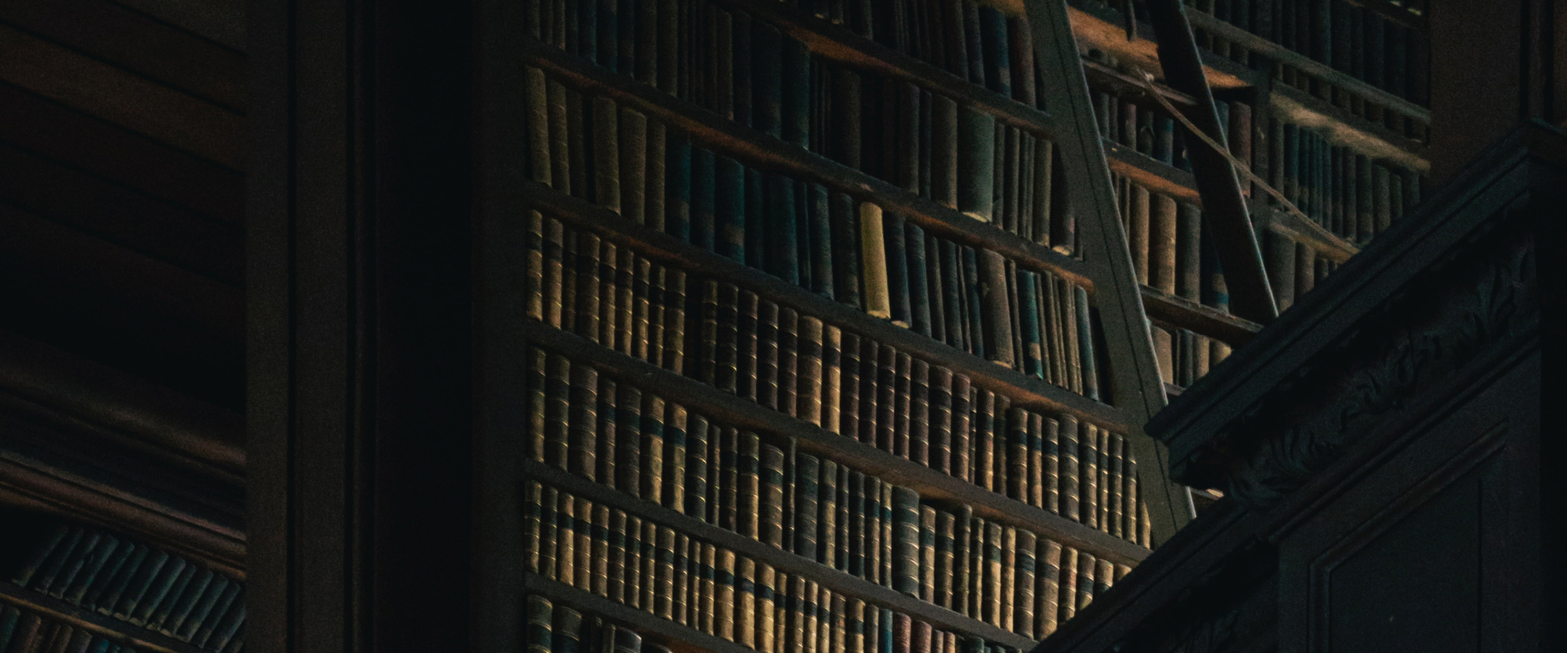
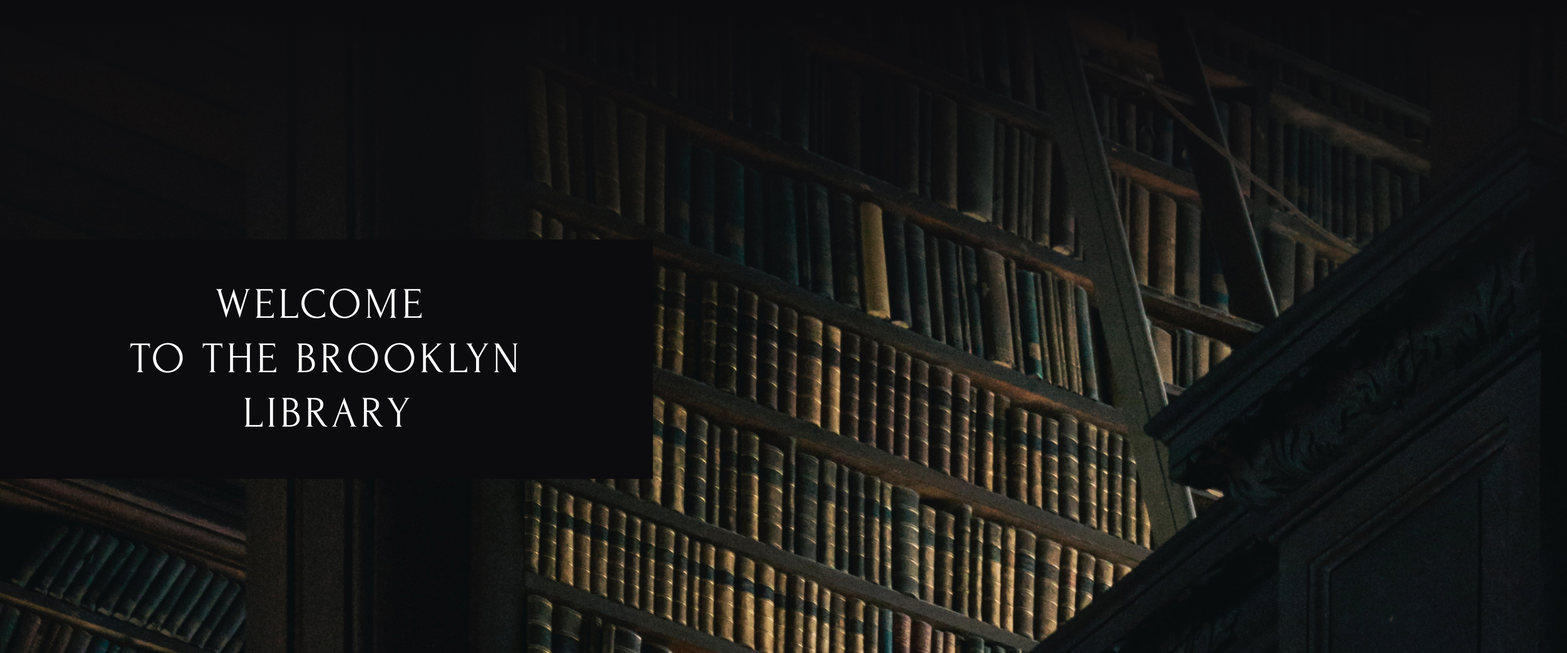
fix: background image adaptive

diff --git a/library/style.css b/library/style.css
@@ -294,6 +294,16 @@ h2::after {
   position: relative;
 }
 
+@media (max-width: 769px) {
+
+  .welcome-container {
+
+    background: url(assets/img/welcome-mobile.jpg),
+      linear-gradient(0deg, rgba(7, 6, 25, 0.1) 50%, rgba(12, 12, 14, 1) 100%);
+    background-size: cover;
+  }
+  }
+
 .welcome-container::before {
   content: "";
   position: absolute;
